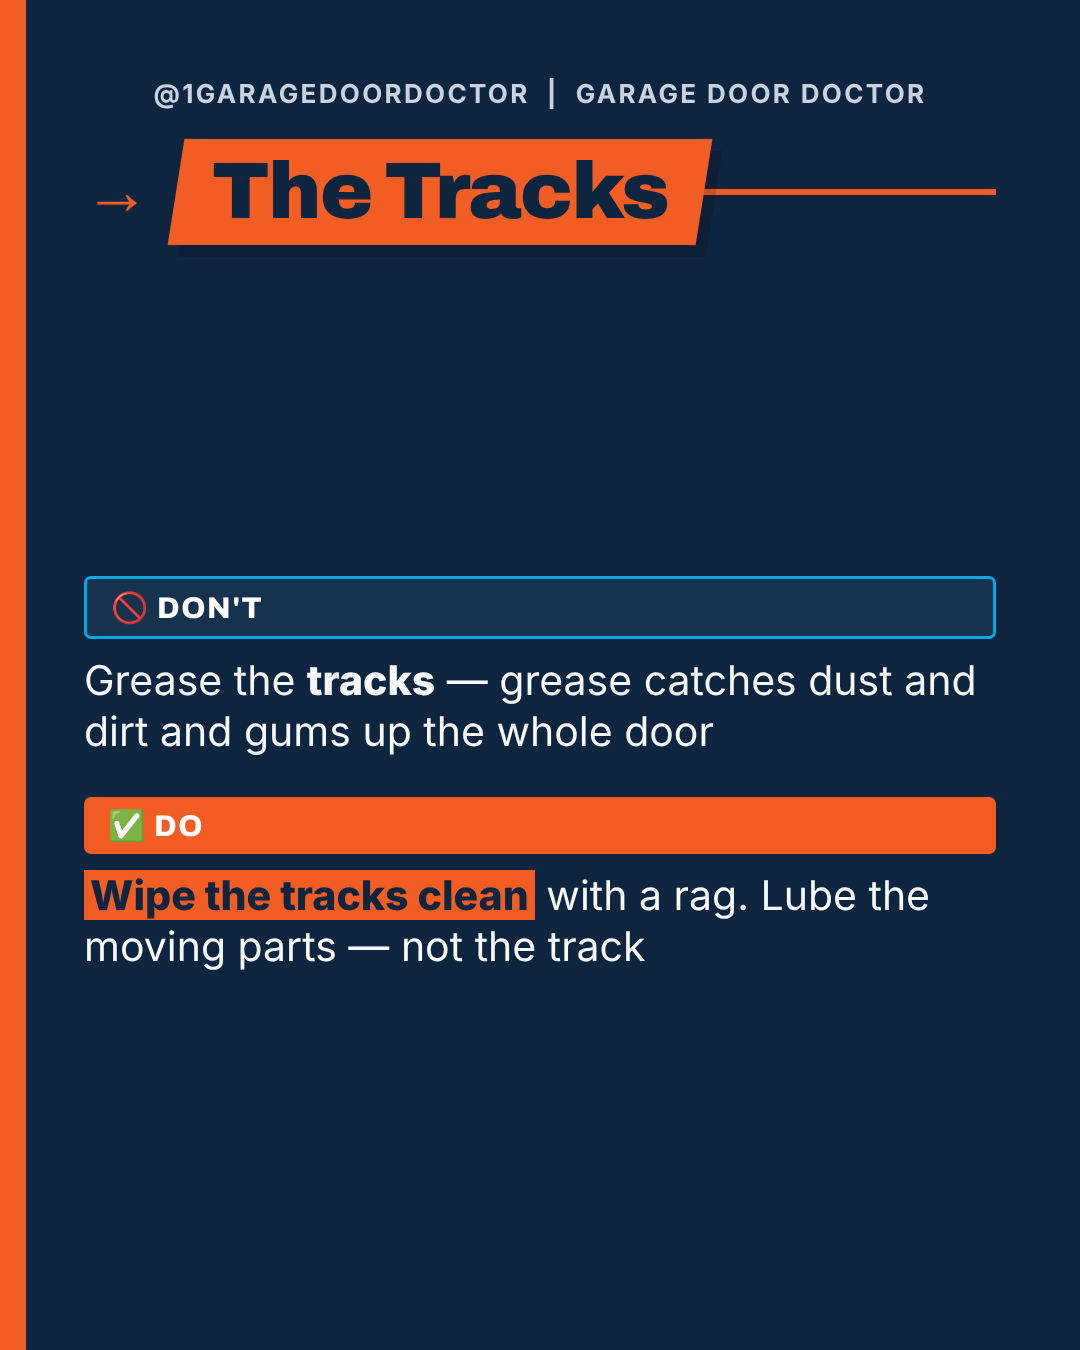
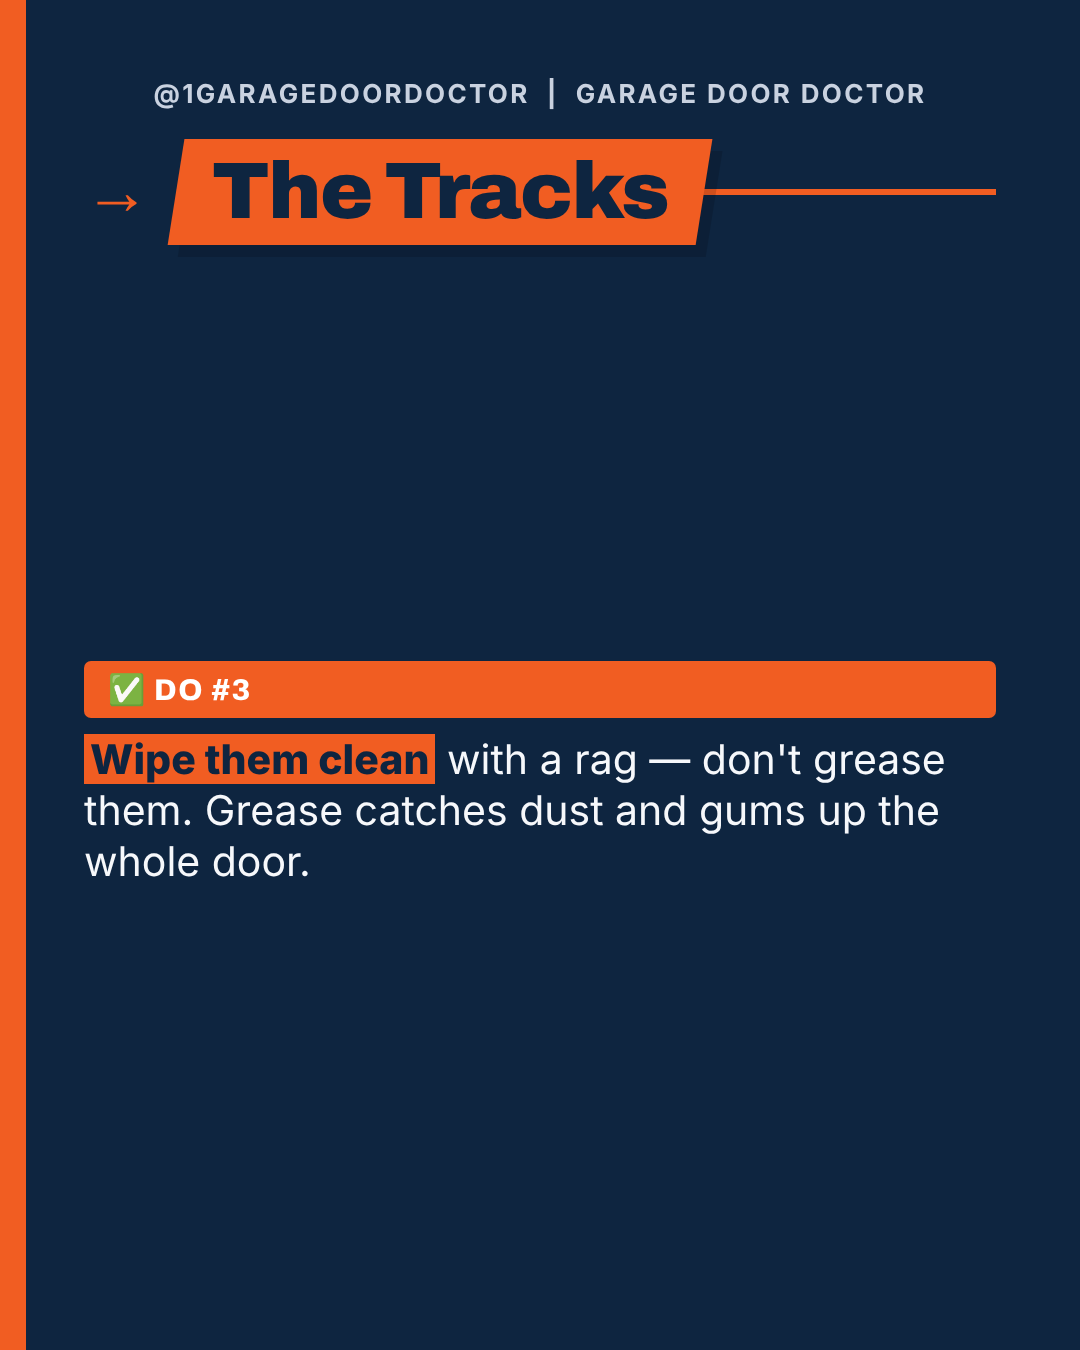
Commit GDD checklist content (slides, PNGs, README)
Ensures the checklist rewrite — 5 'what to do' items with WD-40 as #2,
GDD brand colors — is actually in the tree (prior commit captured only
the folder rename).

Claude-Session: https://claude.ai/code/session_01EQbWoBGtVsHynXoawgJoJp

Changed region(s): [[0.0611, 0.4356, 0.9472, 0.7156]]

diff --git a/carousels/gdd-garage-door-checklist/index.html b/carousels/gdd-garage-door-checklist/index.html
@@ -148,160 +148,112 @@
 </head>
 <body>
 <div class="page">
-
   <div class="intro">
-    <h1>Garage Door Doctor — "Do's & Don'ts" carousel · 7 slides · 1080×1350 (IG 4:5) · A1 brand colors</h1>
-    <p>GDD brand: Navy <code>#0E2540</code> · Orange <code>#F15D22</code> · Blue <code>#00AAE7</code>.
-    Screenshot or print each slide to PNG for Instagram. Confirm the <code>DM "FIX"</code> booking line before posting,
-    and drop a real crew photo into the frame on the last slide.</p>
+    <h1>Garage Door Doctor &mdash; "Maintenance Checklist" carousel &middot; 7 slides &middot; 1080&times;1350 (IG 4:5)</h1>
+    <p>GDD brand: Navy <code>#0E2540</code> &middot; Orange <code>#F15D22</code> &middot; Blue <code>#00AAE7</code>. A list of what to DO for your garage door &mdash; WD-40 is just one item (#2). Confirm the <code>DM "FIX"</code> line and drop a real crew photo into the last slide.</p>
   </div>
 
-  <!-- ============ SLIDE 1 — COVER ============ -->
+  <!-- SLIDE 1 - COVER -->
   <div class="slide-wrap">
     <div class="cap">Slide 1 — Cover</div>
     <div class="slide s-cream">
       <div class="edgebar"></div>
       <div class="topbar">@1GARAGEDOORDOCTOR&nbsp;&nbsp;|&nbsp;&nbsp;GARAGE DOOR DOCTOR</div>
-      <div class="followcta">→&nbsp; FOLLOW FOR MORE</div>
-      <div class="hook">STOP spraying <span class="gold">WD-40</span> on your garage door</div>
-      <div class="subhook">The <b>do's &amp; don'ts</b> every homeowner should know. 👇</div>
+      <div class="followcta">&rarr;&nbsp; FOLLOW FOR MORE</div>
+      <div class="hook">5 things to do for your <span class="gold">garage door</span></div>
+      <div class="subhook">2 minutes a month = no surprise <b>$400 repair.</b> 👇</div>
       <div class="grow"></div>
-      <div class="tag"><span class="dot">G</span><div>@1garagedoordoctor<small>Tap follow · save this post</small></div></div>
+      <div class="tag"><span class="dot">G</span><div>@1garagedoordoctor<small>Tap follow · save this checklist</small></div></div>
     </div>
   </div>
 
-  <!-- ============ SLIDE 2 — 2ND HOOK / WHY ============ -->
   <div class="slide-wrap">
-    <div class="cap">Slide 2 — Why it matters</div>
+    <div class="cap">Slide 2 — Look & listen</div>
     <div class="slide s-navy">
       <div class="edgebar"></div>
       <div class="topbar">@1GARAGEDOORDOCTOR&nbsp;&nbsp;|&nbsp;&nbsp;GARAGE DOOR DOCTOR</div>
       <div class="head">
-        <span class="arrow">→</span>
-        <div class="banner"><span>First, the truth</span></div>
+        <span class="arrow">&rarr;</span>
+        <div class="banner"><span>Look &amp; Listen</span></div>
         <div class="rule"></div>
       </div>
-      <div class="points">
-        <div class="point"><span class="tri">▶</span><p>Your garage door is the <span class="hl">heaviest moving part</span> of your home</p></div>
-        <div class="point"><span class="tri">▶</span><p>Most big repairs started as a <b>small thing someone ignored</b></p></div>
-        <div class="point"><span class="tri">▶</span><p>Here's what to do — and what to <b>never</b> do 👇</p></div>
-      </div>
       <div class="grow"></div>
-      <div class="chip">💾 Save this for your next tune-up</div>
+      <div class="ddgroup"><div class="dditem"><span class="chip do">&#9989; DO #1</span><div class="ddtext">Once a month, watch it open. <span class='hl'>Grinding, popping or jerking</span> is your early warning &mdash; and far cheaper to fix now than later.</div></div></div>
+      <div class="grow"></div>
     </div>
   </div>
 
-  <!-- ============ SLIDE 3 — WD-40 ============ -->
   <div class="slide-wrap">
-    <div class="cap">Slide 3 — The WD-40 myth</div>
+    <div class="cap">Slide 3 — Lube it right (WD-40)</div>
     <div class="slide s-cream">
       <div class="edgebar"></div>
       <div class="topbar">@1GARAGEDOORDOCTOR&nbsp;&nbsp;|&nbsp;&nbsp;GARAGE DOOR DOCTOR</div>
       <div class="head">
-        <span class="arrow">→</span>
-        <div class="banner"><span>The WD-40 Myth</span></div>
+        <span class="arrow">&rarr;</span>
+        <div class="banner"><span>Lube It Right</span></div>
         <div class="rule"></div>
       </div>
       <div class="grow"></div>
-      <div class="ddgroup">
-        <div class="dditem">
-          <span class="chip dont">🚫 Don't</span>
-          <div class="ddtext">Spray <b>WD-40</b> on your tracks or rollers — it's a <b>degreaser</b> that strips lubrication and attracts grime</div>
-        </div>
-        <div class="dditem">
-          <span class="chip do">✅ Do</span>
-          <div class="ddtext">Use a <span class="hl">silicone or white-lithium</span> garage-door lube on the rollers, hinges &amp; springs</div>
-        </div>
-      </div>
+      <div class="ddgroup"><div class="dditem"><span class="chip do">&#9989; DO #2</span><div class="ddtext">Hit the rollers, hinges &amp; springs with <span class='hl'>silicone or white-lithium</span> spray. Skip the <b>WD-40</b> &mdash; it's a degreaser, not a lubricant.</div></div></div>
       <div class="grow"></div>
     </div>
   </div>
 
-  <!-- ============ SLIDE 4 — THE TRACKS ============ -->
   <div class="slide-wrap">
     <div class="cap">Slide 4 — The tracks</div>
     <div class="slide s-navy">
       <div class="edgebar"></div>
       <div class="topbar">@1GARAGEDOORDOCTOR&nbsp;&nbsp;|&nbsp;&nbsp;GARAGE DOOR DOCTOR</div>
       <div class="head">
-        <span class="arrow">→</span>
+        <span class="arrow">&rarr;</span>
         <div class="banner"><span>The Tracks</span></div>
         <div class="rule"></div>
       </div>
       <div class="grow"></div>
-      <div class="ddgroup">
-        <div class="dditem">
-          <span class="chip dont">🚫 Don't</span>
-          <div class="ddtext">Grease the <b>tracks</b> — grease catches dust and dirt and gums up the whole door</div>
-        </div>
-        <div class="dditem">
-          <span class="chip do">✅ Do</span>
-          <div class="ddtext"><span class="hl">Wipe the tracks clean</span> with a rag. Lube the moving parts — not the track</div>
-        </div>
-      </div>
+      <div class="ddgroup"><div class="dditem"><span class="chip do">&#9989; DO #3</span><div class="ddtext"><span class='hl'>Wipe them clean</span> with a rag &mdash; don't grease them. Grease catches dust and gums up the whole door.</div></div></div>
       <div class="grow"></div>
     </div>
   </div>
 
-  <!-- ============ SLIDE 5 — THE SPRINGS ============ -->
   <div class="slide-wrap">
-    <div class="cap">Slide 5 — The springs</div>
+    <div class="cap">Slide 5 — Test the balance</div>
     <div class="slide s-cream">
       <div class="edgebar"></div>
       <div class="topbar">@1GARAGEDOORDOCTOR&nbsp;&nbsp;|&nbsp;&nbsp;GARAGE DOOR DOCTOR</div>
       <div class="head">
-        <span class="arrow">→</span>
-        <div class="banner"><span>The Springs</span></div>
+        <span class="arrow">&rarr;</span>
+        <div class="banner"><span>Test The Balance</span></div>
         <div class="rule"></div>
       </div>
       <div class="grow"></div>
-      <div class="ddgroup">
-        <div class="dditem">
-          <span class="chip dont">🚫 Don't</span>
-          <div class="ddtext">Touch the <b>torsion springs</b> — they're under extreme tension and can seriously hurt you</div>
-        </div>
-        <div class="dditem">
-          <span class="chip do">✅ Do</span>
-          <div class="ddtext">Leave springs, cables &amp; opener-force settings to a <span class="hl">trained pro</span></div>
-        </div>
-      </div>
+      <div class="ddgroup"><div class="dditem"><span class="chip do">&#9989; DO #4</span><div class="ddtext">Pull the release and lift the door halfway. A healthy door <span class='hl'>stays put</span> &mdash; if it drops, your springs need a pro.</div></div></div>
       <div class="grow"></div>
     </div>
   </div>
 
-  <!-- ============ SLIDE 6 — THE MONTHLY TEST ============ -->
   <div class="slide-wrap">
-    <div class="cap">Slide 6 — The 2-minute test</div>
+    <div class="cap">Slide 6 — Safety reverse</div>
     <div class="slide s-navy">
       <div class="edgebar"></div>
       <div class="topbar">@1GARAGEDOORDOCTOR&nbsp;&nbsp;|&nbsp;&nbsp;GARAGE DOOR DOCTOR</div>
       <div class="head">
-        <span class="arrow">→</span>
-        <div class="banner"><span>The 2-Min Test</span></div>
+        <span class="arrow">&rarr;</span>
+        <div class="banner"><span>Safety Reverse</span></div>
         <div class="rule"></div>
       </div>
       <div class="grow"></div>
-      <div class="ddgroup">
-        <div class="dditem">
-          <span class="chip do">✅ Do</span>
-          <div class="ddtext">Once a month, pull the release and <span class="hl">lift the door halfway</span> — a healthy door stays put</div>
-        </div>
-        <div class="dditem">
-          <span class="chip dont">🚫 Don't</span>
-          <div class="ddtext">Keep using it if it <b>slams, creeps or won't hold</b> — that's a spring or balance issue</div>
-        </div>
-      </div>
+      <div class="ddgroup"><div class="dditem"><span class="chip do">&#9989; DO #5</span><div class="ddtext">Wave a broom under the closing door &mdash; it should <span class='hl'>reverse instantly</span>. If it doesn't, stop using it and call us.</div></div></div>
       <div class="grow"></div>
     </div>
   </div>
 
-  <!-- ============ SLIDE 7 — CTA / LAST ============ -->
+  <!-- SLIDE 7 - CTA -->
   <div class="slide-wrap">
     <div class="cap">Slide 7 — CTA</div>
     <div class="slide s-cream">
       <div class="edgebar"></div>
       <div class="topbar">@1GARAGEDOORDOCTOR&nbsp;&nbsp;|&nbsp;&nbsp;GARAGE DOOR DOCTOR</div>
-      <div class="end-top">Not sure what your door needs?</div>
+      <div class="end-top">Want the pros to handle it for you?</div>
       <div class="end-big">Ask the <span class="gold">Doctor.</span></div>
       <div class="teamwrap">
         <div class="teamframe">

diff --git a/carousels/gdd-garage-door-checklist/README.md b/carousels/gdd-garage-door-checklist/README.md
@@ -1,21 +1,22 @@
-# Garage Door Doctor — "Do's & Don'ts" carousel
+# Garage Door Doctor — "Maintenance Checklist" carousel
 
-Instagram carousel, **7 slides**, **1080×1350 (4:5)**. Cheatsheet layout
-(skewed banners, do/don't chips) in **Garage Door Doctor brand colors** (from houstongaragedoordoctor.com): Navy `#0E2540` · Orange `#F15D22` · Blue `#00AAE7`.
+Instagram carousel, **7 slides**, **1080×1350 (4:5)**. A list of what to DO for your
+garage door (WD-40 is just item #2). Cheatsheet layout in **Garage Door Doctor brand
+colors** (from houstongaragedoordoctor.com): Navy `#0E2540` · Orange `#F15D22` · Blue `#00AAE7`.
 
 - `index.html` — the slides. Screenshot or print each `.slide` to PNG (1080×1350).
 - `export/slide-1.png` … `slide-7.png` — pre-rendered PNGs, ready to post.
 
 ## Before posting — check these
 - Handle is set to **`@1garagedoordoctor`**. Confirm it's current.
-- **`Call or DM "FIX"`** (slide 7) → confirm the real booking method (phone / link / DM keyword).
-- Drop a real **crew photo** into the frame on slide 7 (replace the `.photoslot` div with `<img src="team.jpg">`).
+- **`Call or DM "FIX"`** (slide 7) → confirm the real booking method.
+- Drop a real **crew photo** into the frame on slide 7.
 
 ## Slide copy
-1. **Cover** — "STOP spraying WD-40 on your garage door" + do's & don'ts.
-2. **Why it matters** — heaviest moving part of your home; small issues become big repairs.
-3. **The WD-40 myth** — ❌ don't use WD-40 (degreaser) · ✅ silicone / white-lithium lube.
-4. **The tracks** — ❌ don't grease the tracks · ✅ wipe clean, lube moving parts only.
-5. **The springs** — ❌ don't touch torsion springs · ✅ leave to a pro.
-6. **The 2-minute test** — ✅ lift halfway, it should hold · ❌ don't keep using it if it slams/creeps.
+1. **Cover** — "5 things to do for your garage door" + 2 min/month saves a $400 repair.
+2. **Do #1 · Look & Listen** — watch it open monthly; grinding/popping = early warning.
+3. **Do #2 · Lube It Right** — silicone / white-lithium on rollers, hinges, springs; skip WD-40.
+4. **Do #3 · The Tracks** — wipe clean, don't grease.
+5. **Do #4 · Test The Balance** — lift halfway, it should stay put.
+6. **Do #5 · Safety Reverse** — broom test; it should reverse instantly.
 7. **CTA** — "Ask the Doctor." + follow + book a checkup.
